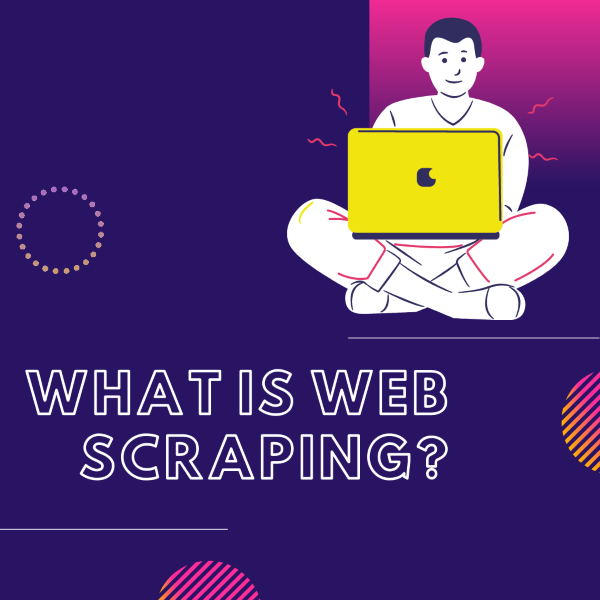
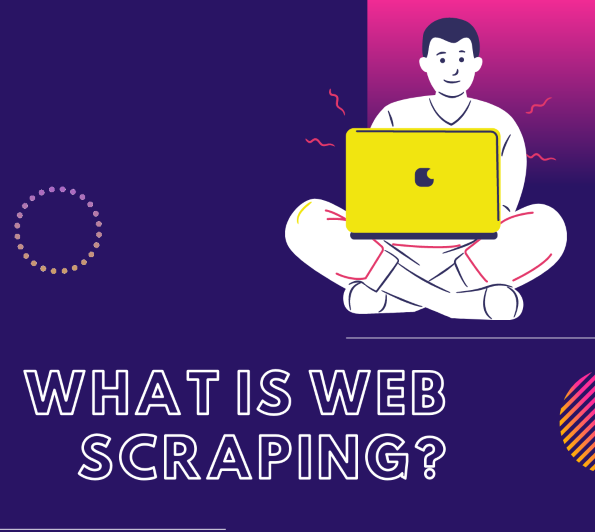
minor edits for flow cropped image

diff --git a/articles/getting-started-with-web-scraping-using-python/index.md b/articles/getting-started-with-web-scraping-using-python/index.md
@@ -6,51 +6,50 @@ url: /engineering-education/getting-started-with-web-scraping-using-python/
 title: Getting Started with Web Scraping using Python
 description: In this article we will learn about web scraping which is the process that makes pulling a huge amount of data from websites easier and faster.
 author: ahmad-mardeni
-date: 2020-10-30T00:00:00-16:00
+date: 2020-11-02T00:00:00-12:00
 topics: [Languages]
 excerpt_separator: <!--more-->
 images:
 
   - url: /engineering-education/getting-started-with-web-scraping-using-python/hero.png
-    alt: web Scraping example image Python
+    alt: web scraping example image Python
 ---
-### Introduction
-Imagine you want to gather a large amount of data from several websites as quickly as possible, will you do it manually, or will you search for it all in a practical way?.
+Imagine you want to gather a large amount of data from several websites as quickly as possible, will you do it manually, or will you search for it all in a practical way?
 Now you are asking yourself, why would you want to do that! Okay, follow along as we go over some examples to understand the need for **web scraping**:
 <!--more-->
-
-- [Wego](https://www.wego.com/en) is a website where you can book your flights & hotels, it gives you the lowest price after comparing 1000 booking sites. This is done by using **web scraping** to help with that process.
+### Introduction
+- [Wego](https://www.wego.com/en) is a website where you can book your flights & hotels, it gives you the lowest price after comparing 1000 booking sites. This is done by **web scraping** that help with that process.
 - [Plagiarismdetector](https://plagiarismdetector.net/) is a tool you can use to check for plagiarism in your article, it also is using **web scraping** to compare your words with thousands of other websites.
-- Another example that a lot of companies are using **web scraping** to create strategic marketing decisions after scraping social network profiles in order to determine the posts with the most interactions.
+- Another example that many companies are using **web scraping** for, is to create strategic marketing decisions after scraping social network profiles, to determine the posts with the most interactions.
 
 ### Prerequisites
 Before we dive right in, the reader would need to have the following:
 1. A good understanding of **Python** programming language.
 2. A basic understanding of **HTML**.
 
-Now after having a brief about **web scraping** let's talk about the most important thing, that is "**legal issues**" surrounding the topic.
+Now after having a brief about **web scraping** let's talk about the most important thing, that is the "**legal issues**" surrounding the topic.
 
-### How to know if the website is allowing web scraping?
-- You have to add "/robots.txt" to the URL, such as www.facebook.com/robots.txt, so that you can see the scraping rules and see what is forbidden to scrap.
+### How to know if the website allows web scraping?
+- You have to add "/robots.txt" to the URL, such as www.facebook.com/robots.txt, so that you can see the scraping rules (for the website) and see what is forbidden to scrap.
 
 For example:
 
-```
+```bash
 User-agent: *
 Crawl-delay: 5
 Disallow: /trap
 ```
 
-The rule above tells us that the site is doing a delay for 5 sec between the requests.
+The rule above tells us that the site is doing a delay of 5 sec between the requests.
 
 Another example:
 
-```
+```bash
 User-agent: Discordbot
 Allow: /*/videos/
 ```
 
-In www.facebook.com/robots.txt you can find this rule listed above, it means that a Discord bot has the permission to do **web scraping** for Facebook videos.
+In www.facebook.com/robots.txt you can find this rule listed above, it means that a Discord bot has the permission to do **web scraping** on Facebook videos.
 
 - You can run the following Python code that make a **GET** request to the website server:
 
@@ -60,7 +59,7 @@ In www.facebook.com/robots.txt you can find this rule listed above, it means tha
   print(r.status_code)
 ```
 
-If the result is **200** then you have the permission to do **web scraping** to the website, but you also have to take a look at the scraping rules.
+If the result is **200** then you have the permission to perform **web scraping** on the website, but you also have to take a look at the scraping rules.
 
 As an example, if you run the following code:
 
@@ -72,32 +71,32 @@ print(r.status_code)
 
 If the result are **200** then you have the permission to start crawling, but you must also be aware of the following **Points**:
 
-- You can scrape just the data that is available for the public like the prices a product, you can not scrape anything private, like a **Sign In** page.
-- You can't use that data for any commercial purposes.
-- Some websites provides an **API** to use for web scraping, like Amazon, you can find their **API** [here](https://developer.amazonservices.com/ref=rm_5_sv).
+- You can only scrape data that is available to the public, like the prices of a product, you can not scrape anything private, like a **Sign In** page.
+- You can't use the scraped data for any commercial purposes.
+- Some websites provide an **API** to use for web scraping, like Amazon, you can find their **API** [here](https://developer.amazonservices.com/ref=rm_5_sv).
 
-As we know, **Python** have different libraries for different purposes.
+As we know, **Python** has different libraries for different purposes.
 
 In this tutorial, we are going to use **Beautiful Soup4**, **urllib**, **requests**, and **plyer** libraries.
 
 For **Windows** users you can install it using the following command in your terminal:
 
-```
+```bash
 pip install beautifulsoup4 urllib3 plyer requests
 ```
 
 For **Linux** users you can use:
 
-```
+```bash
 sudo apt-get install bs4 urllib3 plyer requests
 ```
 
-You are ready to go, let's get started and learn a bit more on **web scraping** through two real-life projects.
+You're ready to go, let's get started and learn a bit more on **web scraping** through two real-life projects.
 
 ### Reddit Web Scraper
-One year ago, I wanted to build a smart **AI** bot, my aim was to make it talk like a human, but I had a problem, I didn't have a good dataset to train my bot on, so I decided to use **REDDIT** posts and comments.
+One year ago, I wanted to build a smart **AI** bot, my aim was to make it talk like a human, but I had a problem, I didn't have a good dataset to train my bot on, so I decided to use posts and comments from **REDDIT**.
 
-Here we will go through how to build the basics of that app step by step, and we will use https://old.reddit.com/
+Here we will go through how to build the basics of the aforementioned app step by step, and we will use https://old.reddit.com/.
 
 ```python
 import requests
@@ -110,7 +109,7 @@ soup = BeautifulSoup(page.content, 'html.parser')
 
 First of all, we imported the libraries we want to use in our code.
 
-**Requests** library allows us to do GET, PUT,.. requests to the website server, and the **beautiful soup** library is used for parsing a page then pulling out a specific item from it. We will see it in a practical example soon.
+**Requests** library allows us to do GET, PUT,.. requests to the website server, and the **beautiful soup** library is used for parsing a page then pulling out a specific item from it. We'll see it in a practical example soon.
 
 Second, the URL we are going to use is for the **TOP** posts on Reddit.
 
@@ -122,7 +121,7 @@ Now let's move on to the next step of building our app:
 
 Open this [URL](https://old.reddit.com/top/) then press **F12** to inspect the page, you will see the HTML code for it. In order to know in what line you can find the HTML code for the element you want to locate, you have to do a right-click on that element then click on inspect.
 
-After doing the process above on the first title on the page, you can see the following code with a highlight for the tag which holds the data you right-clicked on:
+After doing the process above on the first title on the page, you can see the following code with a highlight for the tag that holds the data you right-clicked on:
 
 ![](/engineering-education/getting-started-with-web-scraping-using-python/1.PNG)
 
@@ -150,17 +149,20 @@ print(extracted_records)
 
 After running our code you will see the following result, which is every title on that page:
 
-```
+```bash
 [{'title': 'read it VERY CLOSELY'}, {'title': 'Rural America 2020 billboard outside the Des Moines Airport where Trump will hold his hangar rally'}, {'title': 'TIL a very frugal librarian, the late Robert Morin, left millions of his life savings to the University of New Hampshire where he worked as a librarian, then the University spent $1 million dollars of that money on a scoreboard for a new football stadium.'}, {'title': "Homeless guy is a human too, don't be like these people"}, {'title': 'Ah, victory'}, {'title': 'On the last day to register to vote in Virginia, my brother-in-law finally became a citizen!'}, {'title': 'Thousands of Amazon workers demand time off to vote'}, {'title': 'Vulture hitches ride on selfie stick'}, {'title': 'That about sums it up.'}, {'title': 'My uncle got a notification that someone was ringing his doorbell. This was the culprit.'}, {'title': 'A young culinary mastermind!'}, {'title': 'Tax Return in Australia gives you a breakdown of where your money went'}, {'title': 'that free fall sure is exciting though'}, {'title': 'Cyberpunk 2077s entire script "The game worth a million words..." (literally)'}, {'title': 'Please save your money.'}, {'title': 'Smart stonks'}, {'title': 'Jono Lancaster was given up for adoption because of his birth defect and now he’s a professional model, a teacher and an inspiration to millions!'}, {'title': "We've all been there"}, {'title': 'Future looking bright'}, {'title': 'This is the first time I’ve seen this type of Halloween decoration'}, {'title': 'I got my bet on him'}, {'title': 'How OP made Leonardo DiCaprio!'},
 {'title': 'Wish I could afford to move...'}, {'title': 'Tough choice'}, {'title': 'Coming in full swing'}]
 ```
 
 Finally, you can do the same process for the comments and replies to build up a good dataset as mentioned before.
 
-When it comes to web scraping, API is the best solution that comes to the mind of most data scientists. APIs(Application Programming Interfaces) is an intermediary that allows one software to talk to another. In simple terms, you can ask the **API** for specific data by passing JSON to it and in return, it will also give you a JSON data format.
-For example, Reddit has a publicly-documented API that can be utilized which you can find [here](https://www.reddit.com/dev/api).
+When it comes to web scraping, an API is the best solution that comes to the mind of most data scientists. APIs (Application Programming Interfaces) is an intermediary that allows one software to talk to another. In simple terms, you can ask the **API** for specific data by passing JSON to it and in return, it will also give you a JSON data format.
 
-Also, it is worth mentioning that certain websites contain XHTML or RSS feeds that can be parsed as XML(Extensible Markup Language). XML does not define the form of the page, it defines the content, and it is free of any formatting constraints, so it will be much easier to scrap a website that is using XML. For example, REDDIT provides RSS feeds that can be parsed as XML which you can find [here](https://old.reddit.com/.rss).
+For example, Reddit has a publicly-documented API that can be utilized that you can find [here](https://www.reddit.com/dev/api).
+
+Also, it is worth mentioning that certain websites contain XHTML or RSS feeds that can be parsed as XML (Extensible Markup Language). XML does not define the form of the page, it defines the content, and it's free of any formatting constraints, so it will be much easier to scrape a website that is using XML.
+
+For example, REDDIT provides RSS feeds that can be parsed as XML that you can find [here](https://old.reddit.com/.rss).
 
 Let's build another app to better understand how web scraping works.
 
@@ -169,7 +171,7 @@ Now, we are going to learn how to build a notification system for Covid-19 so we
 
 The data is taken from [worldmeter](https://www.worldometers.info/coronavirus/) website where you can find the COVID-19 **real-time** update for any country in the world.
 
-Let's get started by importing the libraries we are going to use :
+Let's get started by importing the libraries we are going to use:
 
 ```python
 from urllib.request import urlopen,Request
@@ -180,7 +182,7 @@ import time
 
 Here we are using **urllib** to make requests, but feel free to use the **request** library that we used in the **Reddit Web Scraper** example above.
 
-We are using **plyer** package to show the notifications, and the **time** to make the next notification pop up after a time we set.
+We are using the **plyer** package to show the notifications, and the **time** to make the next notification pop up after a time we set.
 
 ```python
 header = {"User-Agent":"Mozilla"}
@@ -221,6 +223,6 @@ After running our code you will see the following notification in the right-hand
 ### Conclusion
 We’ve just proven that anything on the web can be scraped and stored, there are a lot of reasons why we would want to use that information, as an example:
 
-Imagine you are working with a social media platform, and you have a task which is deleting any post may be against the community, the best way of doing that task is by developing a web scraper App that scraps and store the likes and comments number for every post, after that if the post received a lot of comments but without any like, we can know as a result that post is striking a chord in people and we should take a look at it.
+Imagine you are working with a social media platform, and you have a task that is deleting any posts that may be against the community, the best way of doing that task is by developing a web scraper application that scrapes and stores the likes and comments number for every post, after that if the post received a lot of comments but without any like, we can deduce, that this particular post may be striking a chord in people and we should take a look at it.
 
 There are a lot of possibilities, and it’s up to you (as a developer) to choose how you will use that information.
